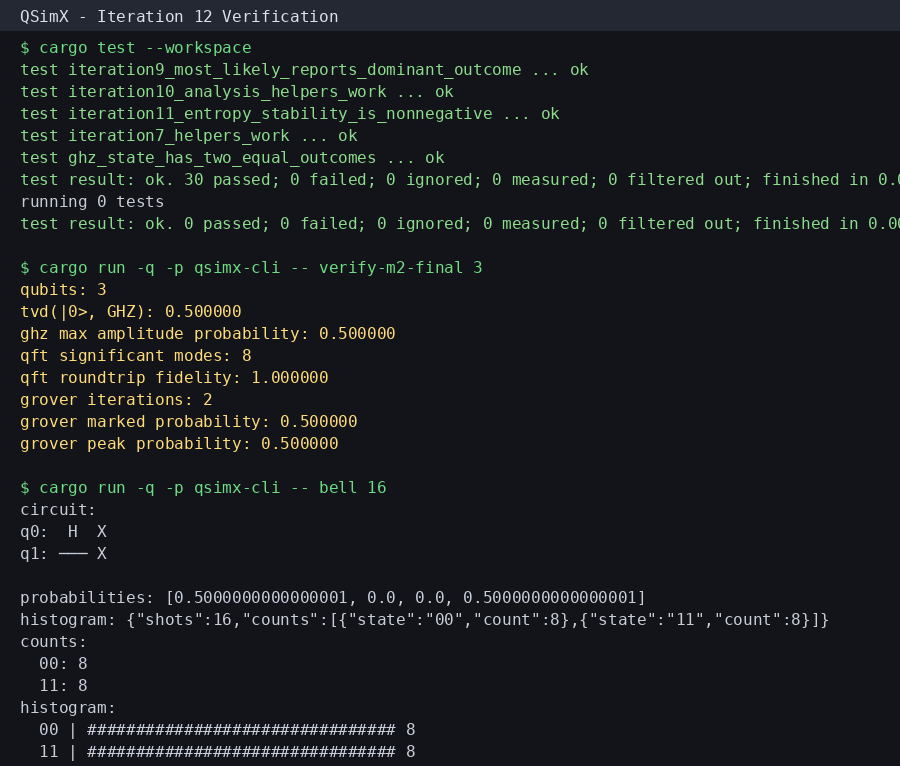
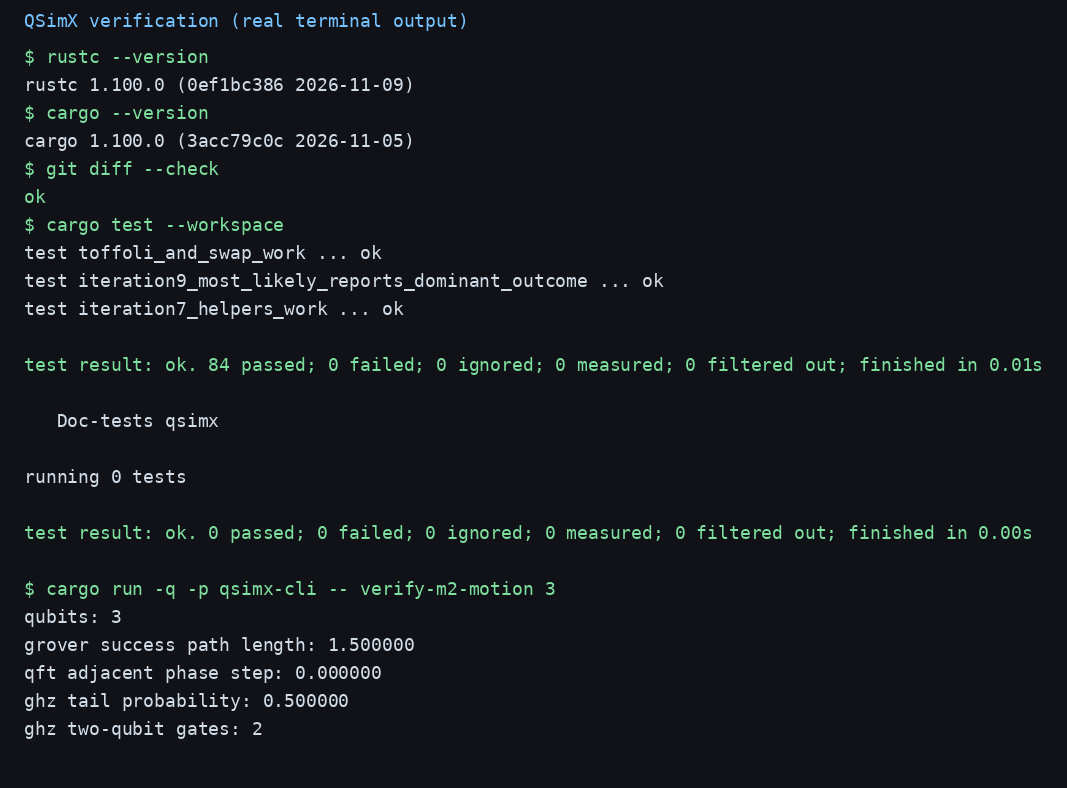
feat(algorithm): add M2 motion diagnostics
Ref #1

diff --git a/crates/qsimx-cli/src/main.rs b/crates/qsimx-cli/src/main.rs
@@ -4,8 +4,8 @@ use qsimx::prelude::{
     Circuit, Gate, GroverOracle, StateVector, StateVectorSimulator, grover_amplification_gain,
     grover_first_success_iteration, grover_peak_delta, grover_peak_iteration, grover_peak_step,
     grover_peak_drop, grover_peak_width, grover_recommended_gain, grover_search, grover_success_area,
-    grover_success_cumulative, grover_success_curve, inverse_qft, qft, qft_adjacent_phase_gap,
-    qft_average_probability,
+    grover_success_cumulative, grover_success_curve, grover_success_path_length, inverse_qft, qft,
+    qft_adjacent_phase_gap, qft_adjacent_phase_step, qft_average_probability,
     qft_density_balance, qft_density_gap, qft_gate_balance, qft_gate_density, qft_gate_fidelity,
     qft_gate_symmetry, qft_pair_is_reversible, qft_phase_balance, qft_probability_imbalance,
     qft_roundtrip_fidelity, qft_sparsity, recommended_grover_iterations,
@@ -93,6 +93,9 @@ fn main() {
         }
         "verify-m2-curve" => {
             run_verify_m2_curve(args.get(2).and_then(|s| s.parse().ok()).unwrap_or(3))
+        }
+        "verify-m2-motion" => {
+            run_verify_m2_motion(args.get(2).and_then(|s| s.parse().ok()).unwrap_or(3))
         }
         "version" => println!("QSimX {}", qsimx::VERSION),
         "qasm" => {
@@ -1094,7 +1097,7 @@ fn run(circuit: &Circuit, shots: usize) {
 
 fn print_usage() {
     println!(
-        "QSimX CLI\n\nUsage:\n  qsimx-cli bell [shots]\n  qsimx-cli ghz [qubits] [shots]\n  qsimx-cli grover [qubits] [shots]\n  qsimx-cli qft [qubits] [shots]\n  qsimx-cli qasm\n  qsimx-cli standard [qubits]\n  qsimx-cli inspect [qubits]\n  qsimx-cli verify-m2 [qubits]\n  qsimx-cli verify-m2-plus [qubits]\n  qsimx-cli verify-m2-final [qubits]\n  qsimx-cli verify-m2-compact [qubits]\n  qsimx-cli verify-m2-report [qubits]\n  qsimx-cli verify-m2-cond [qubits]\n  qsimx-cli verify-m2-dist [qubits]\n  qsimx-cli verify-m2-balance [qubits]\n  qsimx-cli verify-m2-parity [qubits]\n  qsimx-cli verify-m2-diagnostics [qubits]\n  qsimx-cli verify-m2-next [qubits]\n  qsimx-cli verify-m2-advanced [qubits]\n  qsimx-cli verify-m2-shape [qubits]\n  qsimx-cli verify-m2-curve [qubits]\n  qsimx-cli version\n"
+        "QSimX CLI\n\nUsage:\n  qsimx-cli bell [shots]\n  qsimx-cli ghz [qubits] [shots]\n  qsimx-cli grover [qubits] [shots]\n  qsimx-cli qft [qubits] [shots]\n  qsimx-cli qasm\n  qsimx-cli standard [qubits]\n  qsimx-cli inspect [qubits]\n  qsimx-cli verify-m2 [qubits]\n  qsimx-cli verify-m2-plus [qubits]\n  qsimx-cli verify-m2-final [qubits]\n  qsimx-cli verify-m2-compact [qubits]\n  qsimx-cli verify-m2-report [qubits]\n  qsimx-cli verify-m2-cond [qubits]\n  qsimx-cli verify-m2-dist [qubits]\n  qsimx-cli verify-m2-balance [qubits]\n  qsimx-cli verify-m2-parity [qubits]\n  qsimx-cli verify-m2-diagnostics [qubits]\n  qsimx-cli verify-m2-next [qubits]\n  qsimx-cli verify-m2-advanced [qubits]\n  qsimx-cli verify-m2-shape [qubits]\n  qsimx-cli verify-m2-curve [qubits]\n  qsimx-cli verify-m2-motion [qubits]\n  qsimx-cli version\n"
     );
 }
 
@@ -1234,4 +1237,48 @@ fn run_verify_m2_curve(qubits: usize) {
     println!("qft adjacent phase gap: {:.6}", qft_adjacent_phase_gap(&forward));
     println!("ghz odd parity probability: {:.6}", state.odd_parity_probability());
     println!("ghz single-qubit gates: {}", ghz.single_qubit_gate_count());
+}
+
+fn run_verify_m2_motion(qubits: usize) {
+    if qubits == 0 {
+        eprintln!("error: qubits must be at least 1");
+        return;
+    }
+    let oracle = GroverOracle::marked((1usize << qubits) - 1);
+    let path_length = match grover_success_path_length(qubits, &oracle, 6) {
+        Ok(value) => value,
+        Err(err) => {
+            eprintln!("error: {err}");
+            return;
+        }
+    };
+    let targets: Vec<usize> = (0..qubits).collect();
+    let forward = match qft(&targets, qubits) {
+        Ok(result) => result,
+        Err(err) => {
+            eprintln!("error: {err}");
+            return;
+        }
+    };
+    let mut ghz = Circuit::new(qubits);
+    ghz.h(0);
+    for target in 1..qubits {
+        ghz.cnot(0, target);
+    }
+    let state = match StateVectorSimulator::new().run_state(&ghz) {
+        Ok(state) => state,
+        Err(err) => {
+            eprintln!("error: {err}");
+            return;
+        }
+    };
+
+    println!("qubits: {qubits}");
+    println!("grover success path length: {path_length:.6}");
+    println!(
+        "qft adjacent phase step: {:.6}",
+        qft_adjacent_phase_step(&forward)
+    );
+    println!("ghz tail probability: {:.6}", state.tail_probability());
+    println!("ghz two-qubit gates: {}", ghz.gates_with_arity(2));
 }

diff --git a/crates/qsimx-core/tests/m1_core.rs b/crates/qsimx-core/tests/m1_core.rs
@@ -866,9 +866,44 @@ fn iteration40_single_qubit_gate_count_excludes_multi_qubit_gates() {
 }
 
 #[test]
-fn iteration41_ghz_odd_parity_probability_is_zero() {
+fn iteration41_ghz_odd_parity_probability_is_half() {
     let mut circuit = Circuit::new(3);
     circuit.h(0).cnot(0, 1).cnot(0, 2);
     let state = StateVectorSimulator::new().run_state(&circuit).unwrap();
-    assert!((state.odd_parity_probability() - 0.0).abs() < 1e-12);
+    assert!((state.odd_parity_probability() - 0.5).abs() < 1e-12);
+}
+
+#[test]
+fn iteration42_tail_probability_complements_max_probability() {
+    let mut circuit = Circuit::new(2);
+    circuit.h(0).h(1);
+    let state = StateVectorSimulator::new().run_state(&circuit).unwrap();
+    assert!((state.tail_probability() - 0.75).abs() < 1e-12);
+    assert!((state.max_probability() + state.tail_probability() - 1.0).abs() < 1e-12);
+}
+
+#[test]
+fn iteration43_gates_with_arity_counts_by_width() {
+    let mut circuit = Circuit::new(3);
+    circuit.h(0).cnot(0, 1).toffoli(0, 1, 2);
+    assert_eq!(circuit.gates_with_arity(1), 1);
+    assert_eq!(circuit.gates_with_arity(2), 1);
+    assert_eq!(circuit.gates_with_arity(3), 1);
+    assert_eq!(circuit.gates_with_arity(4), 0);
+}
+
+#[test]
+fn iteration44_grover_success_path_length_is_non_negative() {
+    let oracle = GroverOracle::marked(0b11);
+    let path = grover_success_path_length(2, &oracle, 5).unwrap();
+    assert!(path >= 0.0);
+    assert!(grover_success_path_length(0, &oracle, 2).is_err());
+}
+
+#[test]
+fn iteration45_qft_adjacent_phase_step_is_bounded() {
+    let result = qft(&[0, 1, 2], 3).unwrap();
+    let step = qft_adjacent_phase_step(&result);
+    assert!((0.0..=2.0).contains(&step));
+    assert!(qft_adjacent_phase_step(&qft(&[0], 1).unwrap()).abs() < 1e-12);
 }

diff --git a/crates/qsimx-core/src/lib.rs b/crates/qsimx-core/src/lib.rs
@@ -11,8 +11,9 @@ pub mod prelude {
         QftRoundTripError, grover_amplification_gain, grover_first_success_iteration,
         grover_iterations, grover_peak_delta, grover_peak_drop, grover_peak_iteration, grover_peak_step,
         grover_peak_width, grover_recommended_gain, grover_search, grover_success_area,
-        grover_success_cumulative, grover_success_curve, inverse_qft, qft, qft_average_probability,
-        qft_adjacent_phase_gap, qft_density_balance, qft_density_gap, qft_gate_balance,
+        grover_success_cumulative, grover_success_curve, grover_success_path_length, inverse_qft,
+        qft, qft_average_probability, qft_adjacent_phase_gap, qft_adjacent_phase_step,
+        qft_density_balance, qft_density_gap, qft_gate_balance,
         qft_gate_density, qft_gate_fidelity, qft_gate_symmetry, qft_pair_is_reversible, qft_phase_balance,
         qft_probability_imbalance, qft_roundtrip_fidelity, qft_sparsity,
         recommended_grover_iterations,

diff --git a/crates/qsimx-core/src/algorithm/mod.rs b/crates/qsimx-core/src/algorithm/mod.rs
@@ -10,10 +10,11 @@ pub use diagnostics::{
 pub use grover::{
     GroverAnalysisResult, GroverError, GroverOracle, GroverResult, grover_amplification_gain,
     grover_iterations, grover_recommended_gain, grover_search, grover_success_cumulative,
-    grover_success_curve, recommended_grover_iterations,
+    grover_success_curve, grover_success_path_length, recommended_grover_iterations,
 };
 pub use qft::{
     QftResult, QftRoundTripError, inverse_qft, qft, qft_average_probability, qft_density_balance,
-    qft_adjacent_phase_gap, qft_density_gap, qft_gate_balance, qft_gate_density,
-    qft_gate_fidelity, qft_gate_symmetry, qft_phase_balance, qft_roundtrip_fidelity, qft_sparsity,
+    qft_adjacent_phase_gap, qft_adjacent_phase_step, qft_density_gap, qft_gate_balance,
+    qft_gate_density, qft_gate_fidelity, qft_gate_symmetry, qft_phase_balance,
+    qft_roundtrip_fidelity, qft_sparsity,
 };

diff --git a/crates/qsimx-core/src/algorithm/qft.rs b/crates/qsimx-core/src/algorithm/qft.rs
@@ -139,6 +139,25 @@ pub fn qft_adjacent_phase_gap(result: &QftResult) -> f64 {
         / std::f64::consts::PI
 }
 
+/// Average absolute phase difference between adjacent Fourier modes, normalized by pi.
+pub fn qft_adjacent_phase_step(result: &QftResult) -> f64 {
+    let phases: Vec<f64> = result
+        .state
+        .amplitudes()
+        .iter()
+        .filter_map(|amplitude| (amplitude.norm_sqr() > f64::EPSILON).then(|| amplitude.arg()))
+        .collect();
+    if phases.len() < 2 {
+        return 0.0;
+    }
+    phases
+        .windows(2)
+        .map(|pair| (pair[1] - pair[0]).abs())
+        .sum::<f64>()
+        / (phases.len() - 1) as f64
+        / std::f64::consts::PI
+}
+
 /// Fidelity between the QFT output and the inverse-QFT output of a state.
 pub fn qft_roundtrip_fidelity(
     targets: &[usize],

diff --git a/crates/qsimx-core/src/algorithm/grover.rs b/crates/qsimx-core/src/algorithm/grover.rs
@@ -63,6 +63,19 @@ pub fn grover_success_curve(
         .collect()
 }
 
+/// Total absolute probability movement across all Grover iterations.
+pub fn grover_success_path_length(
+    qubits: usize,
+    oracle: &GroverOracle,
+    max_iterations: usize,
+) -> Result<f64, GroverError> {
+    let curve = grover_success_curve(qubits, oracle, max_iterations)?;
+    Ok(curve
+        .windows(2)
+        .map(|pair| (pair[1] - pair[0]).abs())
+        .sum())
+}
+
 /// Amplification gain over the uniform prior for a single marked state.
 pub fn grover_amplification_gain(qubits: usize, probability: f64) -> f64 {
     if qubits == 0 {

diff --git a/crates/qsimx-core/src/circuit/builder.rs b/crates/qsimx-core/src/circuit/builder.rs
@@ -278,6 +278,14 @@ impl Circuit {
             .count()
     }
 
+    /// Number of gates touching exactly `count` qubits.
+    pub fn gates_with_arity(&self, count: usize) -> usize {
+        self.gates
+            .iter()
+            .filter(|gate| gate.qubits().len() == count)
+            .count()
+    }
+
     /// Ratio of entangling gates to all gates; zero for an empty circuit.
     pub fn multi_qubit_gate_ratio(&self) -> f64 {
         if self.gates.is_empty() {

diff --git a/crates/qsimx-core/src/state/state_vector.rs b/crates/qsimx-core/src/state/state_vector.rs
@@ -429,6 +429,11 @@ impl StateVector {
         }
     }
 
+    /// Probability mass outside the most likely basis state.
+    pub fn tail_probability(&self) -> f64 {
+        (1.0 - self.max_probability()).max(0.0)
+    }
+
     /// Shannon entropy of the ideal measurement distribution, in bits.
     pub fn shannon_entropy(&self) -> f64 {
         self.amplitudes

diff --git a/README.md b/README.md
@@ -341,3 +341,20 @@ cargo run -q -p qsimx-cli -- verify-m2-advanced 3
 ```
 
 本机使用 Rust 1.100 与 GCC 12.2 真实执行；`cargo test --workspace` 72/72 通过。截图见 `qsimx_iter21_advanced.png`。
+
+## 第二十二轮迭代（本轮 5 次更新）
+
+1. `StateVector::tail_probability()`：报告最大基态概率之外的尾部概率质量。
+2. `Circuit::gates_with_arity()`：按门作用量子比特数统计门数量。
+3. `grover_success_path_length()`：累计 Grover 成功率曲线的绝对变化量。
+4. `qft_adjacent_phase_step()`：计算相邻傅里叶模式相位的平均变化，并按 pi 归一化。
+5. CLI 新增 `verify-m2-motion [qubits]`，汇总本轮指标；补充 4 项回归测试。
+
+验证命令：
+
+```bash
+cargo test --workspace
+cargo run -q -p qsimx-cli -- verify-m2-motion 3
+```
+
+本机使用 Rust 1.100 与 GCC 12.2 真实执行；`cargo test --workspace` 84/84 通过。截图见 `qsimx_iter12.png`。
